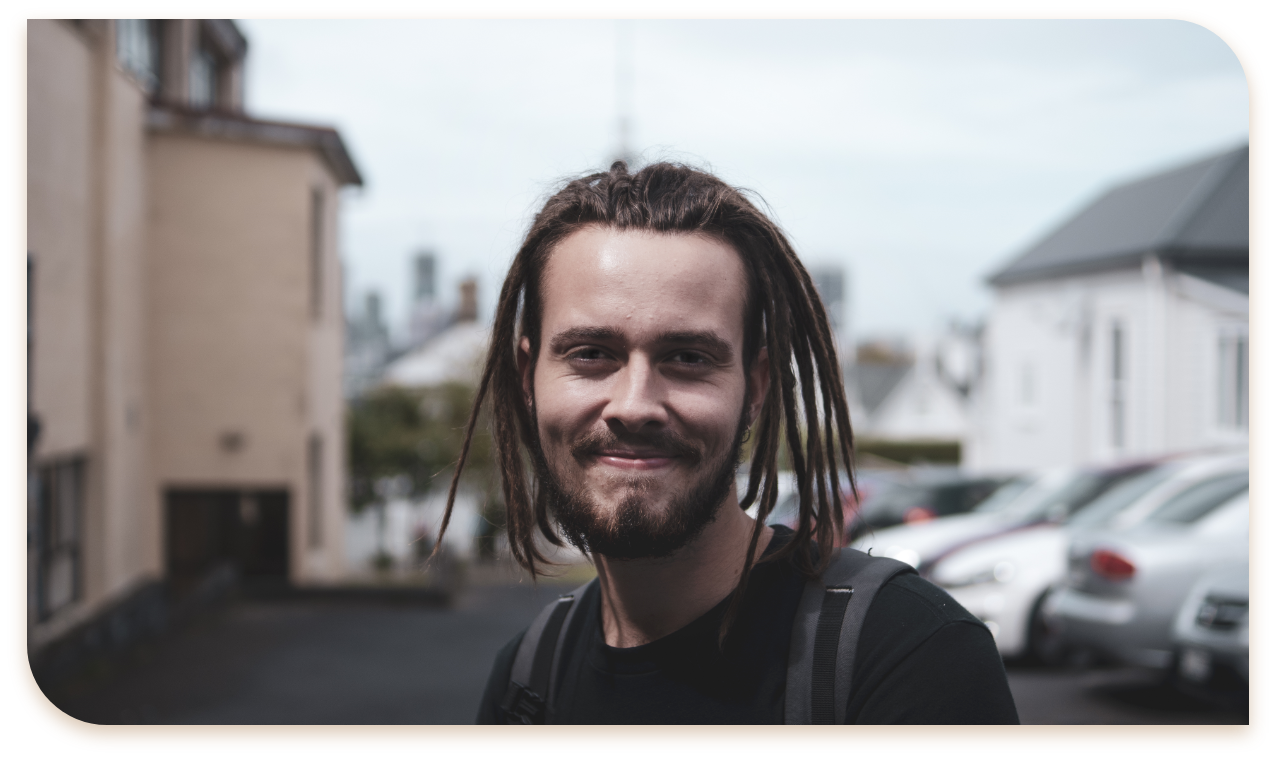
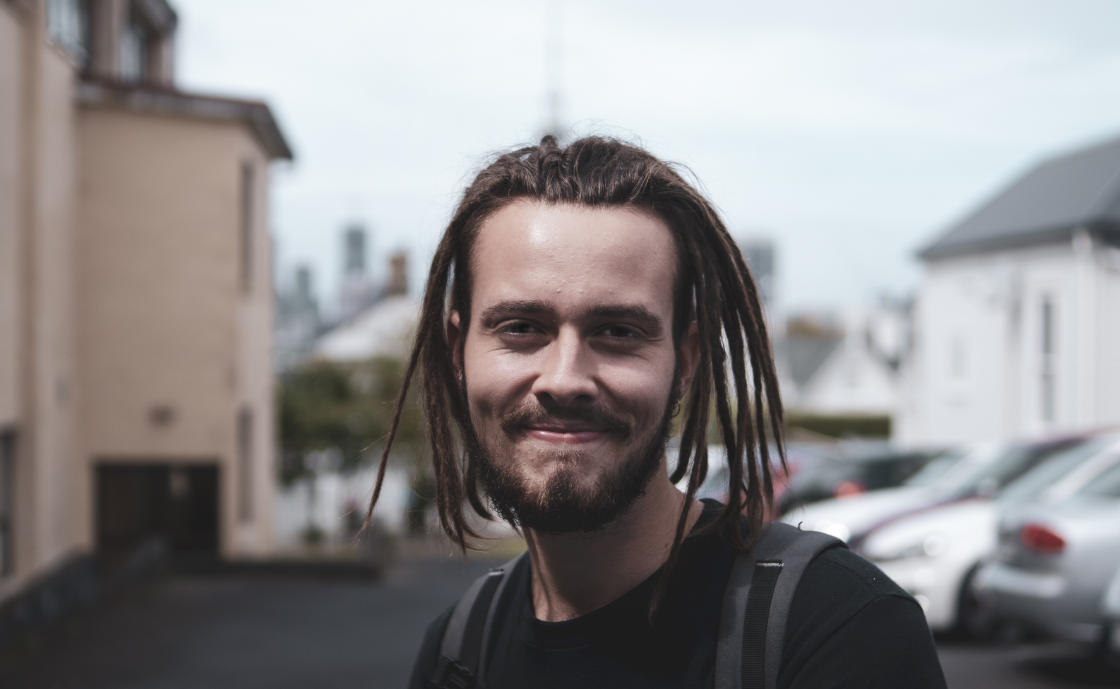
s 20 in progress

diff --git a/src/shared/pages/commitment-satisfaction-page.js b/src/shared/pages/commitment-satisfaction-page.js
@@ -1,29 +1,10 @@
 import * as React from 'react';
 import { Stack, Typography } from '@mui/material';
-import {ThemeProvider, createTheme } from '@mui/material/styles';
+import {ThemeProvider } from '@mui/material/styles';
 import Box from '@mui/material/Box';
-import {toggleBorder} from '../../../shared/styles/debugging-border';
-import flowerImage from '../../../assets/Maintenance Assets/DSC02898@2x.png';
+import {toggleBorder} from '../styles/debugging-border';
 
-const TypographyTheme = createTheme();
 const isBorder = toggleBorder;
-
-TypographyTheme.typography.body1 = {
-    fontSize: '1.2rem',
-    maxWidth: '600px',
-    '@media (min-width:600px)': {
-        fontSize: '1rem',
-        maxWidth: '600px',
-    },
-    [TypographyTheme.breakpoints.up('xl')]: {
-        fontSize: '1.5rem',
-        maxWidth: '600px',
-    },
-    [TypographyTheme.breakpoints.up('lg')]: {
-        fontSize: '1.3rem',
-        maxWidth: '600px',
-    },
-};
 
 function ImageCard(props) {
     return (
@@ -46,9 +27,9 @@ function ImageCard(props) {
 function ContentCard(props) {
     return (
         <Stack direction="column" justifyContent="center" alignItems="flex-start" sx={{ border: isBorder ? '1px solid green' : 'none', width: '50%', maxWidth: '400px'}} spacing={'2rem'}>
-            <ThemeProvider theme={TypographyTheme}>
-                <Typography variant="h4" sx={{fontWeight: 500}}>{props.data.title}</Typography>
-                <Typography variant="body1" display="block">
+            <ThemeProvider theme={props.theme}>
+                <Typography color="primary" variant="h4" sx={{fontWeight: 500}}>{props.data.title}</Typography>
+                <Typography color="primary" variant="body1" display="block">
                     {props.data.paraOne}
                 </Typography> 
             </ThemeProvider>                  
@@ -56,38 +37,26 @@ function ContentCard(props) {
     )
 }
 
-function SecondPage() {
-    const Cards = [
-        {
-            title: "Committed To All Of You",
-            image: flowerImage,
-            paraOne: "We're committed to making the moving and living process as hassle free as possible, and to do that we provide fantastic management and maintenance of your home or flat.",
-        },
-        {
-            title: "Client Satisfaction",
-            image: flowerImage,
-            paraOne: "To put it briefly, our mission is fulfilled when we see our tenants and homeowners satisfied with smiles on their faces. We believe in providing excellent and quality maintenance services to all our customers. We aim at becoming a company with team work that will encourage all the people to grow and prosper.",
-        },
-    ];
+function CommitmentSatisfactionPage(props) {
 
   return (
         <React.Fragment>
             <Stack direction="column" alignItems="center" justifyContent="space-around" spacing={'2rem'} sx={{ border: isBorder ? '2px solid red' : 'none', height: '100vh'}}>
                 
                 {
-                    Cards.map((card, i) => (
+                    props.data.cards.map((card, i) => (
                         <React.Fragment key={i}>
                             {
                                 i === 0 && 
                                 <Stack direction="row" justifyContent="space-around" spacing={'2rem'} sx={{ border: isBorder ? '2px solid orange' : 'none', width: '70%', height: 'fitContent', maxWidth: '1440px'}}>
                                     <ImageCard data = {card}/>
-                                    <ContentCard data = {card} />                              
+                                    <ContentCard theme={props.data.theme} data = {card} />                              
                                 </Stack> 
                             }
                             {
                                 i === 1 &&
                                 <Stack direction="row" justifyContent="space-around" spacing={'2rem'} sx={{ border: isBorder ? '2px solid orange' : 'none', width: '70%', height: 'fitContent', maxWidth: '1440px'}}>
-                                    <ContentCard data = {card} />
+                                    <ContentCard theme={props.data.theme} data = {card} />
                                     <ImageCard data = {card}/>
                                 </Stack> 
                             }
@@ -99,4 +68,4 @@ function SecondPage() {
     );
 }
 
-export default SecondPage;
+export default CommitmentSatisfactionPage;

diff --git a/src/shared/core/constant.js b/src/shared/core/constant.js
@@ -1,3 +1,7 @@
+import flowerImage from '../../assets/Maintenance Assets/DSC02898@2x.png';
+import fenceImage from '../../assets/Maintenance Assets/fence.png';
+import boyImage from '../../assets/Maintenance Assets/DSC02212@2x.png';
+
 export const CardsContent = [
     {
         title: 'Collection Of Information',
@@ -35,5 +39,31 @@ export const CardsContent = [
             'If you have questions or complains about our privacy policy, please email us at info@friendlyflats.co.nz',
             'Private Policy is available on the Consol website. Friendly Flats retains the right to change this privacy policy from time to time. All updated versions of this policy will be posted and kept up to date on the website.',
         ]        
+    },
+];
+
+export const CommitmentCards = [
+    {
+        title: "Committed To All Of You",
+        image: flowerImage,
+        paraOne: "We're committed to making the moving and living process as hassle free as possible, and to do that we provide fantastic management and maintenance of your home or flat.",
+    },
+    {
+        title: "Client Satisfaction",
+        image: fenceImage,
+        paraOne: "To put it briefly, our mission is fulfilled when we see our tenants and homeowners satisfied with smiles on their faces. We believe in providing excellent and quality maintenance services to all our customers. We aim at becoming a company with team work that will encourage all the people to grow and prosper.",
+    },
+];
+
+export const CommitmentCardsTwo = [
+    {
+        title: "Committed To All Of You",
+        image: flowerImage,
+        paraOne: "We're committed to making the moving and living process as hassle free as possible, and to do that we provide fantastic management and maintenance of your home or flat.",
+    },
+    {
+        title: "Client Satisfaction",
+        image: boyImage,
+        paraOne: "To put it briefly, our mission is fulfilled when we see our tenants and homeowners satisfied with smiles on their faces. We believe in providing excellent and quality maintenance services to all our customers. We aim at becoming a company with team work that will encourage all the people to grow and prosper.",
     },
 ];

diff --git a/src/screens/screen-four/screen-four.js b/src/screens/screen-four/screen-four.js
@@ -3,9 +3,11 @@ import FooterPrimary from '../../shared/components/footer-primary/footer-primary
 import WelcomePageVariantOne from '../../shared/pages/welcome-page-v1';
 import ClientsReviewPage from '../../shared/pages/clients-review-page';
 import WelcomeImage from '../../assets/All Listings Assets/boat.png';
-import SecondPage from './components/second-page';
 import ThirdPage from './components/third-page';
 import FourthPage from './components/fourth-page';
+import { LightTheme } from '../../shared/styles/themes/light-theme';
+import CommitmentSatisfactionPage from '../../shared/pages/commitment-satisfaction-page';
+import { CommitmentCards } from '../../shared/core/constant';
 
 function ScreenFour() {
   const welcomePage = {
@@ -16,10 +18,15 @@ function ScreenFour() {
     showButtonGroup: false,
     menu: ['House Owners', 'Flatmates', 'Maintainance', 'Property Management'] 
   }
+
+  const commitment = {
+    cards: CommitmentCards,
+    theme: LightTheme
+  };
   return (
     <React.Fragment>
       <WelcomePageVariantOne data = {welcomePage}/>
-      <SecondPage/>
+      <CommitmentSatisfactionPage data={commitment} />
       <ThirdPage/>
       <FourthPage/>
       <ClientsReviewPage/>

diff --git a/src/screens/screen-twenty/screen-twenty.js b/src/screens/screen-twenty/screen-twenty.js
@@ -4,6 +4,8 @@ import FooterSecondary from '../../shared/components/footer-secondary/footer-sec
 import WelcomePageVariantTwo from '../../shared/pages/welcome-page-v2';
 import { DarkGreenTheme } from '../../shared/styles/themes/dark-green-theme';
 import { BrownTheme } from '../../shared/styles/themes/brown-theme';
+import { CommitmentCardsTwo } from '../../shared/core/constant';
+import CommitmentSatisfactionPage from '../../shared/pages/commitment-satisfaction-page';
 
 function ScreenTwenty() {
     const welcomePage = {
@@ -17,9 +19,14 @@ function ScreenTwenty() {
         menuTheme: DarkGreenTheme,
         headingTheme: BrownTheme,
     }
+    const commitment = {
+        cards: CommitmentCardsTwo,
+        theme: BrownTheme
+    };
     return (
         <React.Fragment>
             <WelcomePageVariantTwo data = {welcomePage} />
+            <CommitmentSatisfactionPage data={commitment} />
             <FooterSecondary/>
         </React.Fragment>
     );
